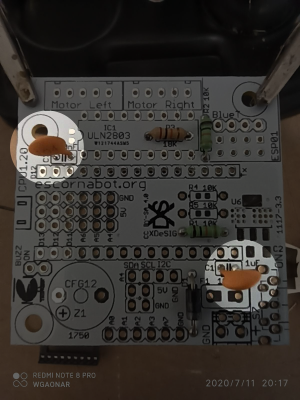
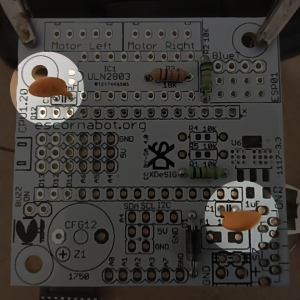
Soldering the base was added

diff --git a/Escornabot.html b/Escornabot.html
@@ -707,7 +707,7 @@ que se puede ver en la Figura 11:
 <figure style="text-align: center">
   <p style="text-align: center"> 
     <img src="/assets/Escornabot/CPU/cpu_inicial.jpg"
-    alt="cpu_inicial.jpg" width="90%"/>
+    alt="cpu_inicial.jpg" width="80%"/>
   </p>
   <figcaption>
     Figura 11: Tarjeta de control EscornaCPU_V1.2
@@ -881,15 +881,17 @@ Los componentes requeridos y su correspondiente función se enlistan en la Tabla
 </table>
 
 <h3>Soldadura de las resistencias</h3>
-Soldar las resistencias de forma similar a la Botonera. Teniendo cuidado de no 
-confundir los valores. Las Figuras 12a y 12b muestran el soldado de cada una de 
-las resistencias:
+<p>
+  Soldar las resistencias de forma similar a la Botonera. Teniendo cuidado de no 
+  confundir los valores. Las Figuras 12a y 12b muestran el soldado de cada una de 
+  las resistencias:
+</p>
 
 <div class="row">
   <div class="column">
     <figure>
       <img src="/assets/Escornabot/CPU/cpu_resistencias_1.jpg"
-        alt="botonera_ensambleLed_1.jpg" style="width:100%">
+        alt="cpu_resistencias_1.jpg" style="width:100%">
       <figcaption>
         Figura 12a: Soldadura de R1 y R2 de 10KΩ.
       </figcaption>
@@ -898,10 +900,122 @@ las resistencias:
   <div class="column">
     <figure>
       <img src="/assets/Escornabot/CPU/cpu_resistencias_2.jpg"
-        alt="botonera_ensambleLed_3.jpg" style="width:100%">
+        alt="cpu_resistencias_2.jpg" style="width:100%">
       <figcaption>
         Figura 12b: Soldadura de R3 de 18KΩ.
       </figcaption>
     </figure>
   </div>
 </div>
+
+<h3>Soldadura del diodo</h3>
+<p>Antes de soldar el diodo se debe observar su polaridad, 
+ya que este elemento permite el paso de la corriente en una 
+única dirección, por lo que es importante que quede soldado de 
+la manera correcta.</p> 
+
+<p>El esquema con el que se representa a este componente consiste en 
+un triángulo con una barra horizontal en uno de sus vértices. 
+La dirección del triángulo indica la dirección de la corriente, 
+mientras que la barra horizontal indica el no paso de la corriente.</p>
+
+<p>Este esquema se encuentra dibujado en la tarjeta para orientar al 
+diodo de forma correcta. Por otro lado, en el componente únicamente
+se señala la barra horizontal de color gris, suficiente para orientarlo en la 
+tarjeta tal como se muestra en la Figura 13.</p>
+
+<figure style="text-align: center">
+  <p style="text-align: center"> 
+    <img src="/assets/Escornabot/CPU/cpu_diodo_1.png"
+    alt="cpu_diodo_1.png" width="50%"/>
+  </p>
+  <figcaption>
+    Figura 13: Soldadura del diodo Schotttky 1N5817
+  </figcaption>
+</figure>
+
+<h3>Soldadura de los condensadores</h3>
+<p>
+  Los condensadores cerámicos son elementos que <b>no</b> tienen polaridad, 
+  a diferencia de los electrolíticos que sí la tienen.
+  En este caso los condensadores 104 se pueden soldar sin importar la orientación 
+  en que se coloquen. Las Figuras 14a y 14b muestran la soldadura de estos dos 
+  condensadores y el aspecto de la tarjeta de control.
+</p>
+
+<div class="row">
+  <div class="column">
+    <figure>
+      <img src="/assets/Escornabot/CPU/cpu_condensadores_1.png"
+        alt="cpu_condensadores_1.png" style="width:100%">
+      <figcaption>
+        Figura 14a: Soldadura de los condensadores cerámicos 104
+        de 100nF.
+      </figcaption>
+    </figure>
+  </div>
+  <div class="column">
+    <figure>
+      <img src="/assets/Escornabot/CPU/cpu_condensadores_2.png"
+        alt="cpu_condensadores_2.png" style="width:100%">
+      <figcaption>
+        Figura 14b: Vista inclinada de la tarjeta de control con los
+        condensadores y el diodo soldados.
+      </figcaption>
+    </figure>
+  </div>
+</div>
+
+<h3>Soldadura del zócalo de 18 pines</h3>
+<p>
+  El zócalo de 18 pines se utiliza para colocar el driver ULN2803, 
+  ya que no es recomendable soldar este último de forma directa a la placa debido 
+  a que se puede quemar por el calor aplicado y además, en caso de que se necesite 
+  reemplazar a futuro, pueda realizarse sin tener que desoldarlo de la tarjeta.
+</p> 
+<p>
+  Antes de soldarlo hay que ubicarlo de forma correcta. Hay que tener presente 
+  que tiene una <b>orientación específica</b> 
+  con la muesca que tiene en uno de sus extremos orientada hacia la izquierda, 
+  tal como se muestra en la Figura 15a teniendo cuidado de acomodarlo de forma 
+  correcta para que asiente de forma plana sobre la tarjeta y la resistencia 
+  R3 de 18 KΩ no le estorbe y quede debajo y oculta.
+</p>
+<div class="row">
+  <div class="column">
+    <figure>
+      <img src="/assets/Escornabot/CPU/cpu_zocalo_1.png"
+        alt="cpu_zocalo_1.png" style="width:100%">
+      <figcaption>
+        Figura 15a: Ubicación del zócalo de 18 pines con la muesca hacia 
+        la izquierda.
+      </figcaption>
+    </figure>
+  </div>
+  <div class="column">
+    <figure>
+      <img src="/assets/Escornabot/CPU/cpu_zocalo_3.png"
+        alt="cpu_zocalo_3" style="width:100%">
+      <figcaption>
+        Figura 15b: Posición correcta del zócalo colocado de forma plana
+        sobre la tarjeta.
+      </figcaption>
+    </figure>
+  </div>
+</div>
+
+<p>
+  Para soldarlo, se puede comenzar con las dos primeras terminales como
+  se puede ver en la Figura 16 y antes de soldar las terminales restantes, 
+  verificar que no quede levantado.
+</p>
+
+<figure style="text-align: center">
+  <p style="text-align: center"> 
+    <img src="/assets/Escornabot/CPU/cpu_zocalo_2.png"
+    alt="cpu_zocalo_2.png" width="50%"/>
+  </p>
+  <figcaption>
+    Figura 16: Soldadura de las dos primeras terminales del zócalo.
+  </figcaption>
+</figure>
